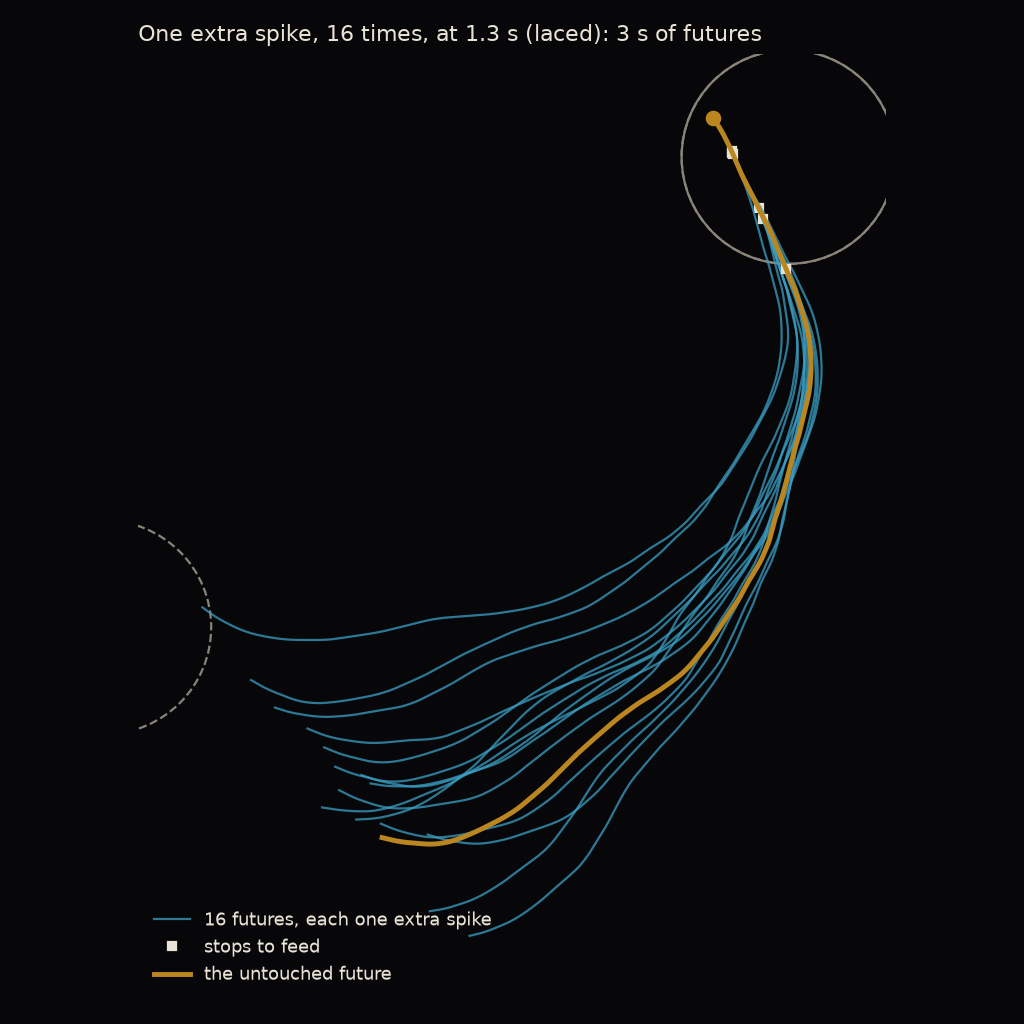
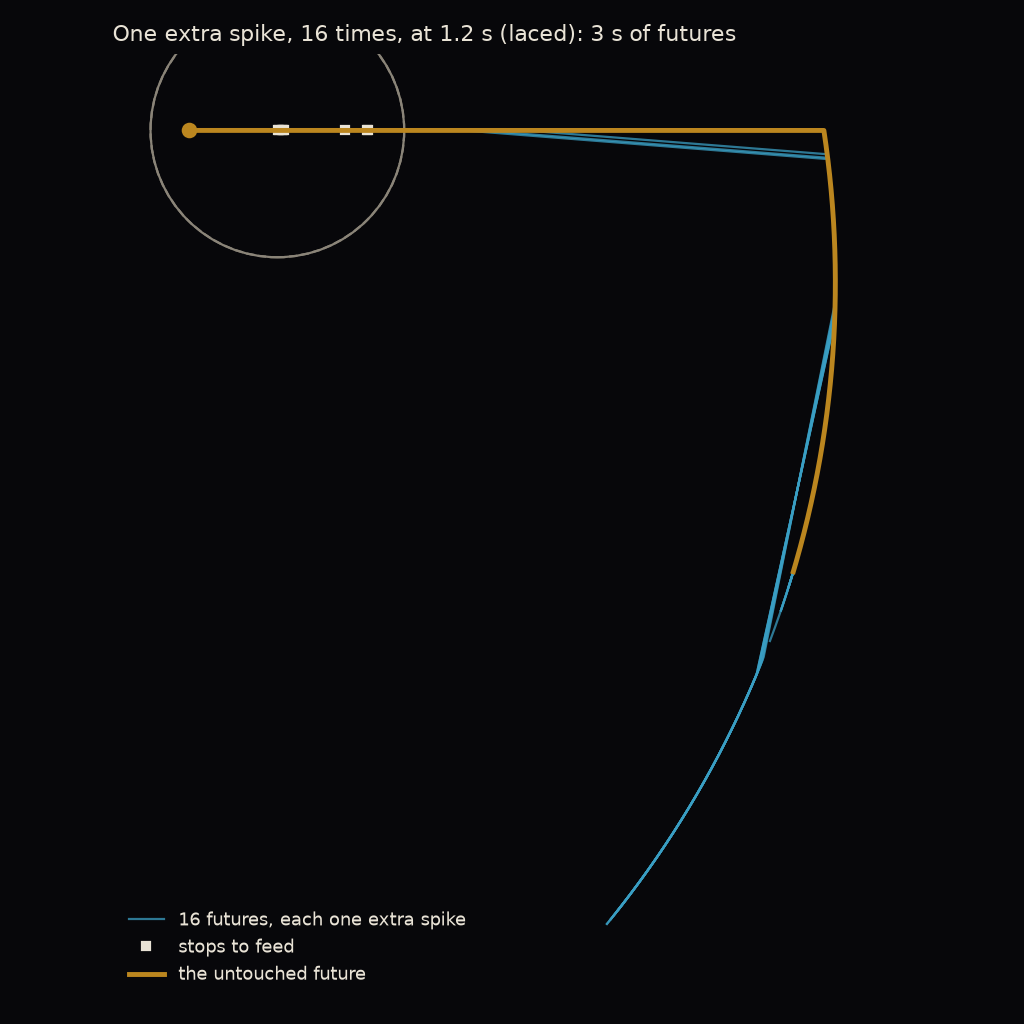
science: walking-drive survey, recalibrated decision points, aimed divergence (ADR-0036)

diff --git a/scripts/survey_walking_drive.py b/scripts/survey_walking_drive.py
@@ -1,0 +1,114 @@
+"""Which neurons upstream of P9 make a good walking drive? (ADR-0036)
+
+P9 (DNp09) is the forward-speed readout, so it must not also be driven (ADR-0035).
+For each candidate type that excites P9, stimulate it for 1 s and measure how hard
+P9 fires, what else it drives, and how much of the brain it wakes (which sets speed).
+
+    uv run python scripts/survey_walking_drive.py
+"""
+
+from __future__ import annotations
+
+import csv
+from concurrent.futures import ProcessPoolExecutor
+from pathlib import Path
+
+from tramlines.brain.connectome import Connectome, load_connectome
+from tramlines.brain.engine import Brain, enable_determinism
+from tramlines.brain.neurons import NeuronCatalog, load_catalog
+from tramlines.world.decoder import FlyDecoder
+
+OUT = Path(__file__).resolve().parent.parent / "docs" / "assets" / "walking_drive_survey.csv"
+CANDIDATES = ("CL270", "PVLP150", "AVLP369", "PVLP076", "CB2777", "CB2659", "CB2458", "CB1446")
+RATES_HZ = (100.0,)
+# Second round: the cleanest candidate alone and paired, at rising drive rates.
+DOSE = (("CB2777",), ("CB2777", "AVLP369"), ("CB2777", "CB2659"))
+DOSE_RATES_HZ = (100.0, 150.0, 200.0)
+SEEDS = (0, 1)
+STEPS = 10_000
+
+_connectome: Connectome | None = None
+
+
+def neurons_of(catalog: NeuronCatalog, name: str) -> list[int]:
+    by_hemibrain = catalog.find(hemibrain_type=name)
+    return by_hemibrain or catalog.find(cell_type=name)
+
+
+def trial(job: tuple[str, float, int]) -> dict[str, object]:
+    global _connectome
+    name, rate, seed = job
+    enable_determinism()
+    if _connectome is None:
+        _connectome = load_connectome()
+    catalog = load_catalog()
+    drive = [n for part in name.split("+") for n in neurons_of(catalog, part)]
+    brain = Brain(_connectome, catalog.index_of(drive), seed=seed)
+    brain.set_input_rates(rate)
+    record = brain.run(STEPS)
+    readouts = FlyDecoder.from_catalog(catalog).readout_neurons.tolist()
+    counts = [record.count(int(n)) for n in readouts]
+    overlap = sorted(set(catalog.index_of(drive).tolist()) & set(readouts))
+    return {
+        "type": name,
+        "neurons": len(drive),
+        "rate_hz": rate,
+        "seed": seed,
+        "p9_mean_hz": sum(counts[0:4]) / 4,
+        "dna02_left_hz": counts[4],
+        "dna02_right_hz": counts[5],
+        "mdn_mean_hz": sum(counts[6:10]) / 4,
+        "gf_max_hz": max(counts[10:12]),
+        "mn9_max_hz": max(counts[12:14]),
+        "awake_neurons": int(brain.awake_neurons().numel()),
+        "total_spikes": int(record.neurons.numel()),
+        "overlaps_readout": len(overlap),
+    }
+
+
+def main() -> None:
+    import sys
+
+    if sys.argv[1:] == ["--dose"]:
+        names = ["+".join(combo) for combo in DOSE]
+        jobs = [(n, r, seed) for n in names for r in DOSE_RATES_HZ for seed in SEEDS]
+        with ProcessPoolExecutor(max_workers=2) as pool:
+            rows = list(pool.map(trial, jobs))
+        for n in names:
+            for r in DOSE_RATES_HZ:
+                mine = [x for x in rows if x["type"] == n and x["rate_hz"] == r]
+                p9 = [float(str(x["p9_mean_hz"])) for x in mine]
+                side = max(float(str(x["gf_max_hz"])) for x in mine)
+                awake = sum(int(str(x["awake_neurons"])) for x in mine) / len(mine)
+                print(
+                    f"{n:16} {r:5.0f} Hz: P9 {min(p9):5.1f}-{max(p9):5.1f} Hz"
+                    f"  GF {side:3.0f}  awake {awake:6.0f}"
+                )
+        return
+    jobs = [(name, rate, seed) for name in CANDIDATES for rate in RATES_HZ for seed in SEEDS]
+    with ProcessPoolExecutor(max_workers=2) as pool:  # memory rule (ADR-0029, ADR-0032)
+        rows = list(pool.map(trial, jobs))
+    OUT.parent.mkdir(parents=True, exist_ok=True)
+    with OUT.open("w", newline="") as f:
+        writer = csv.DictWriter(f, fieldnames=list(rows[0]))
+        writer.writeheader()
+        writer.writerows(rows)
+    header = ("type", "n", "P9 Hz", "DNa02 L/R", "MDN", "GF", "MN9", "awake", "overlap")
+    print(*header)
+    for name in CANDIDATES:
+        mine = [r for r in rows if r["type"] == name]
+
+        def mean(k: str, mine: list[dict[str, object]] = mine) -> float:
+            return sum(float(str(r[k])) for r in mine) / len(mine)
+
+        print(
+            f"{name:8} {mine[0]['neurons']:>3} {mean('p9_mean_hz'):7.1f} "
+            f"{mean('dna02_left_hz'):4.0f}/{mean('dna02_right_hz'):<4.0f} "
+            f"{mean('mdn_mean_hz'):5.1f} "
+            f"{mean('gf_max_hz'):5.0f} {mean('mn9_max_hz'):5.0f} {mean('awake_neurons'):7.0f} "
+            f"{mine[0]['overlaps_readout']:>7}"
+        )
+
+
+if __name__ == "__main__":
+    main()
